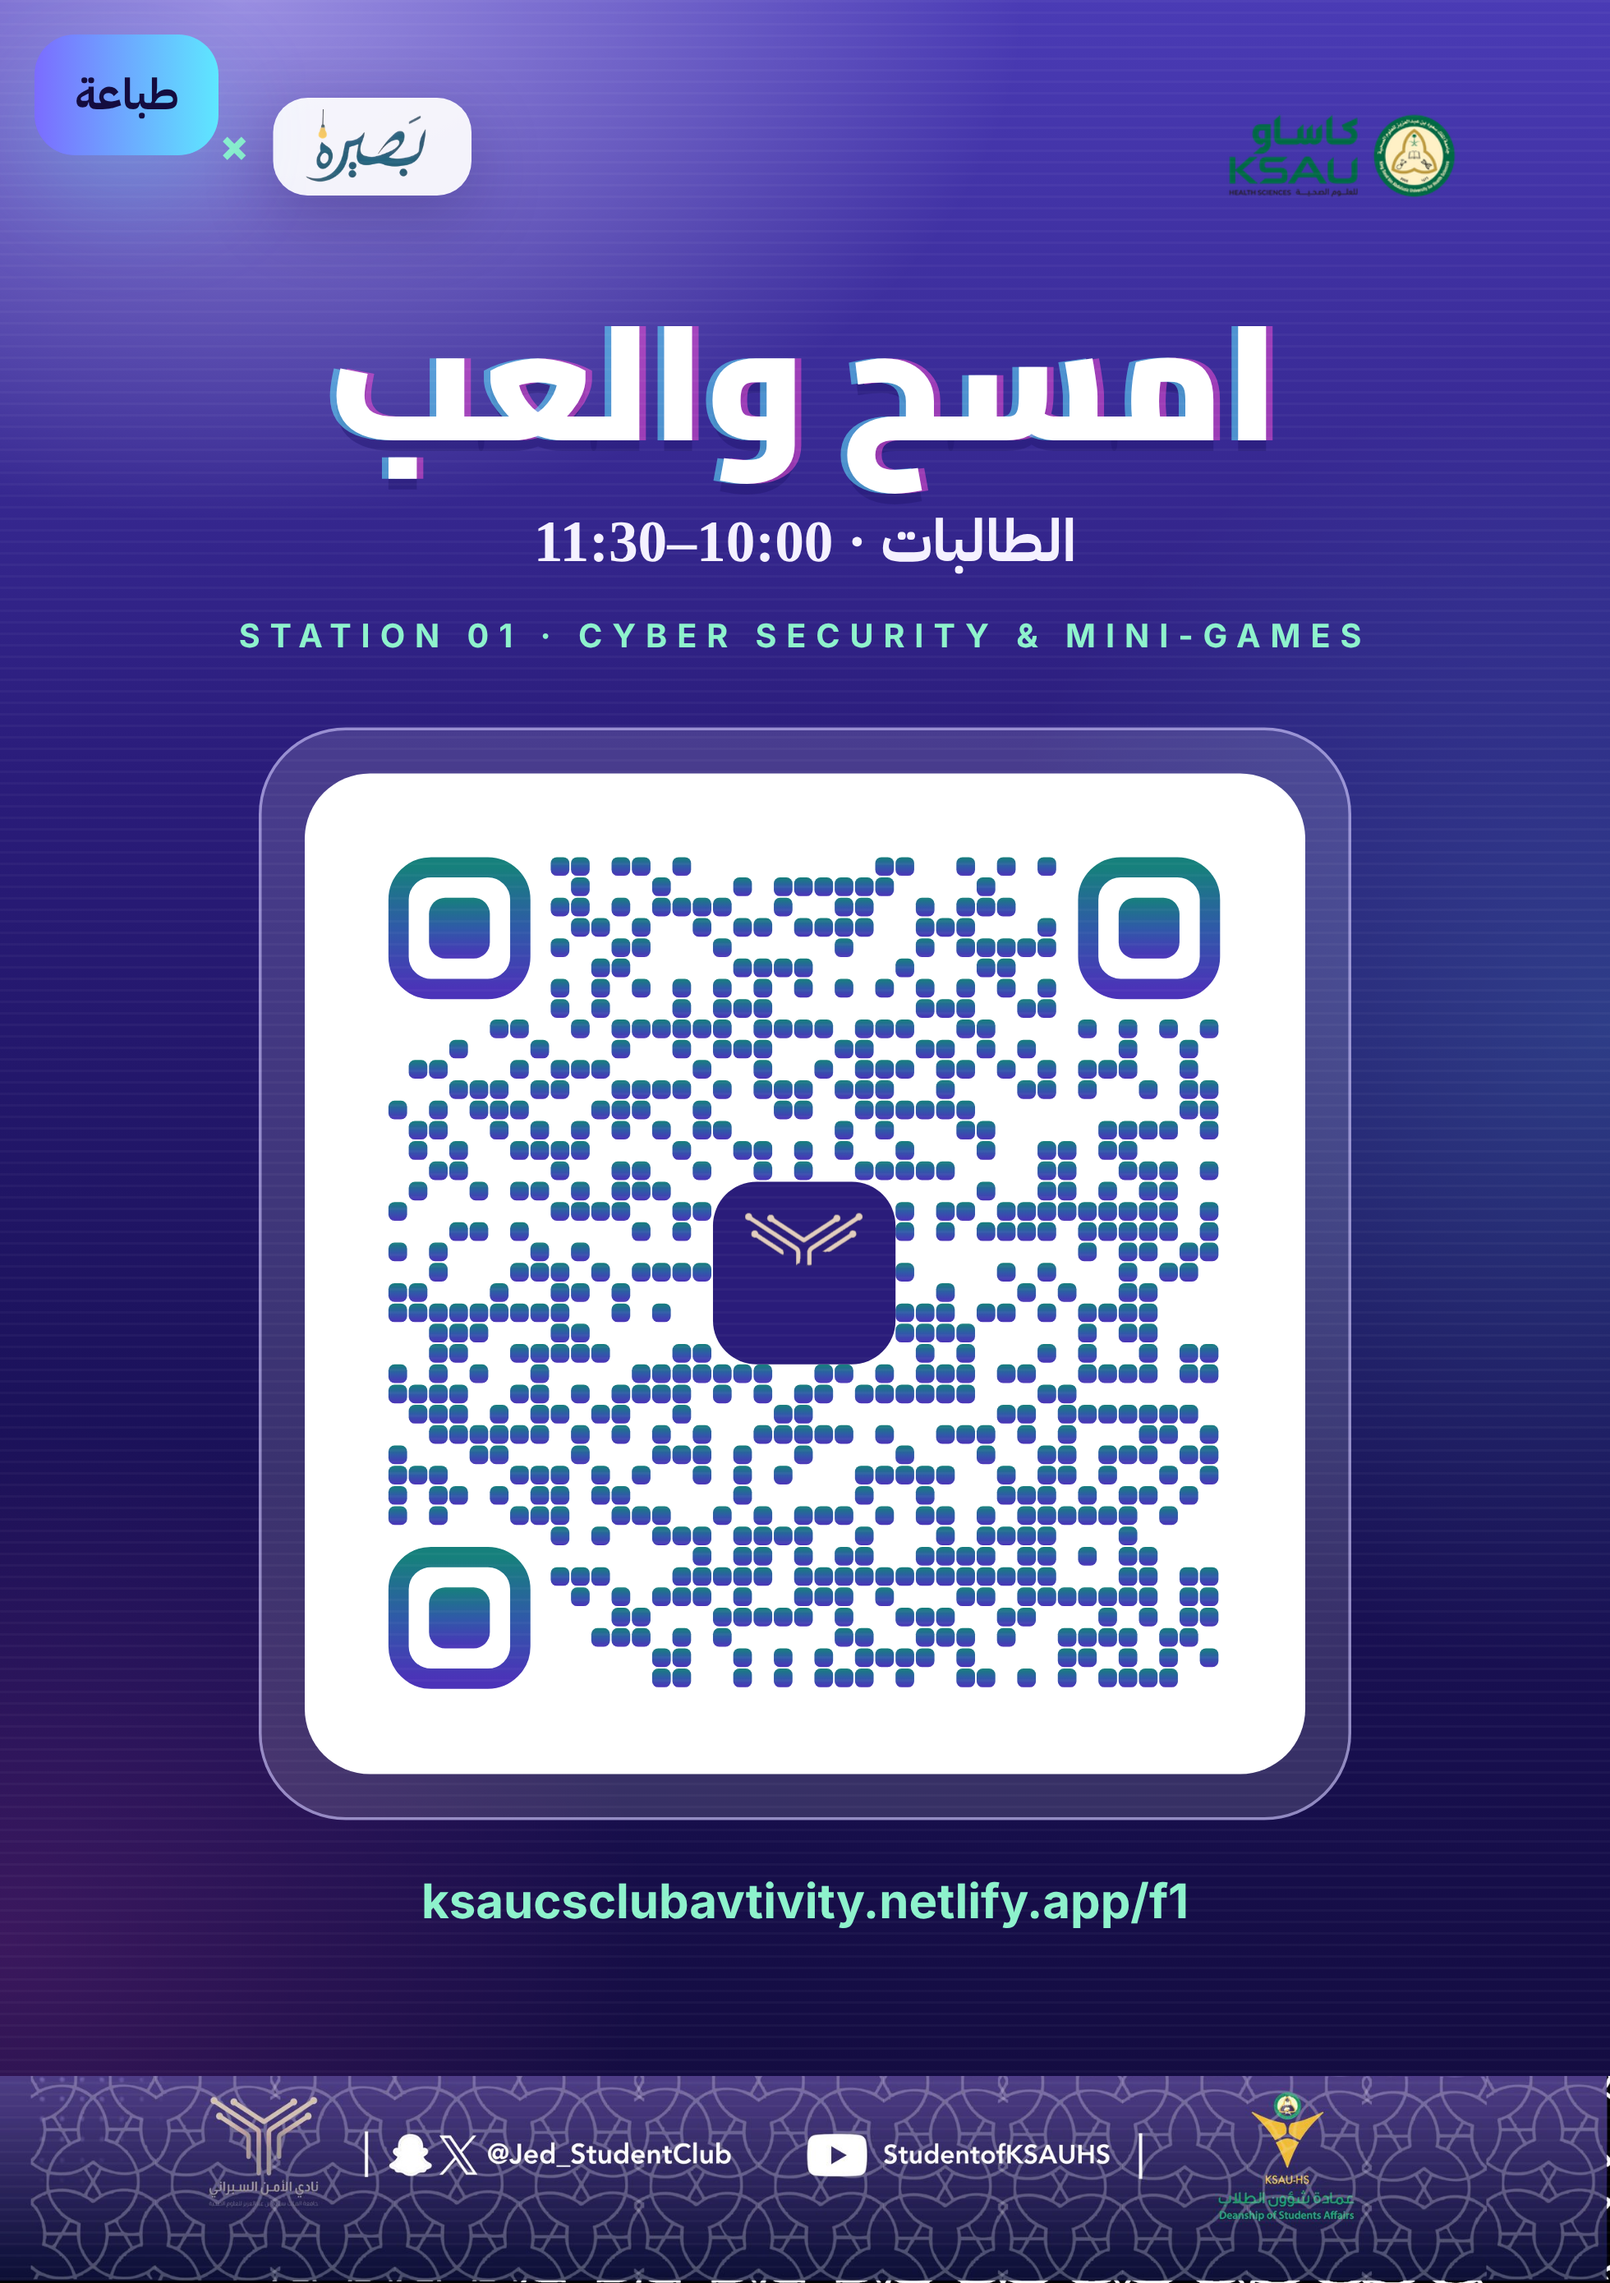
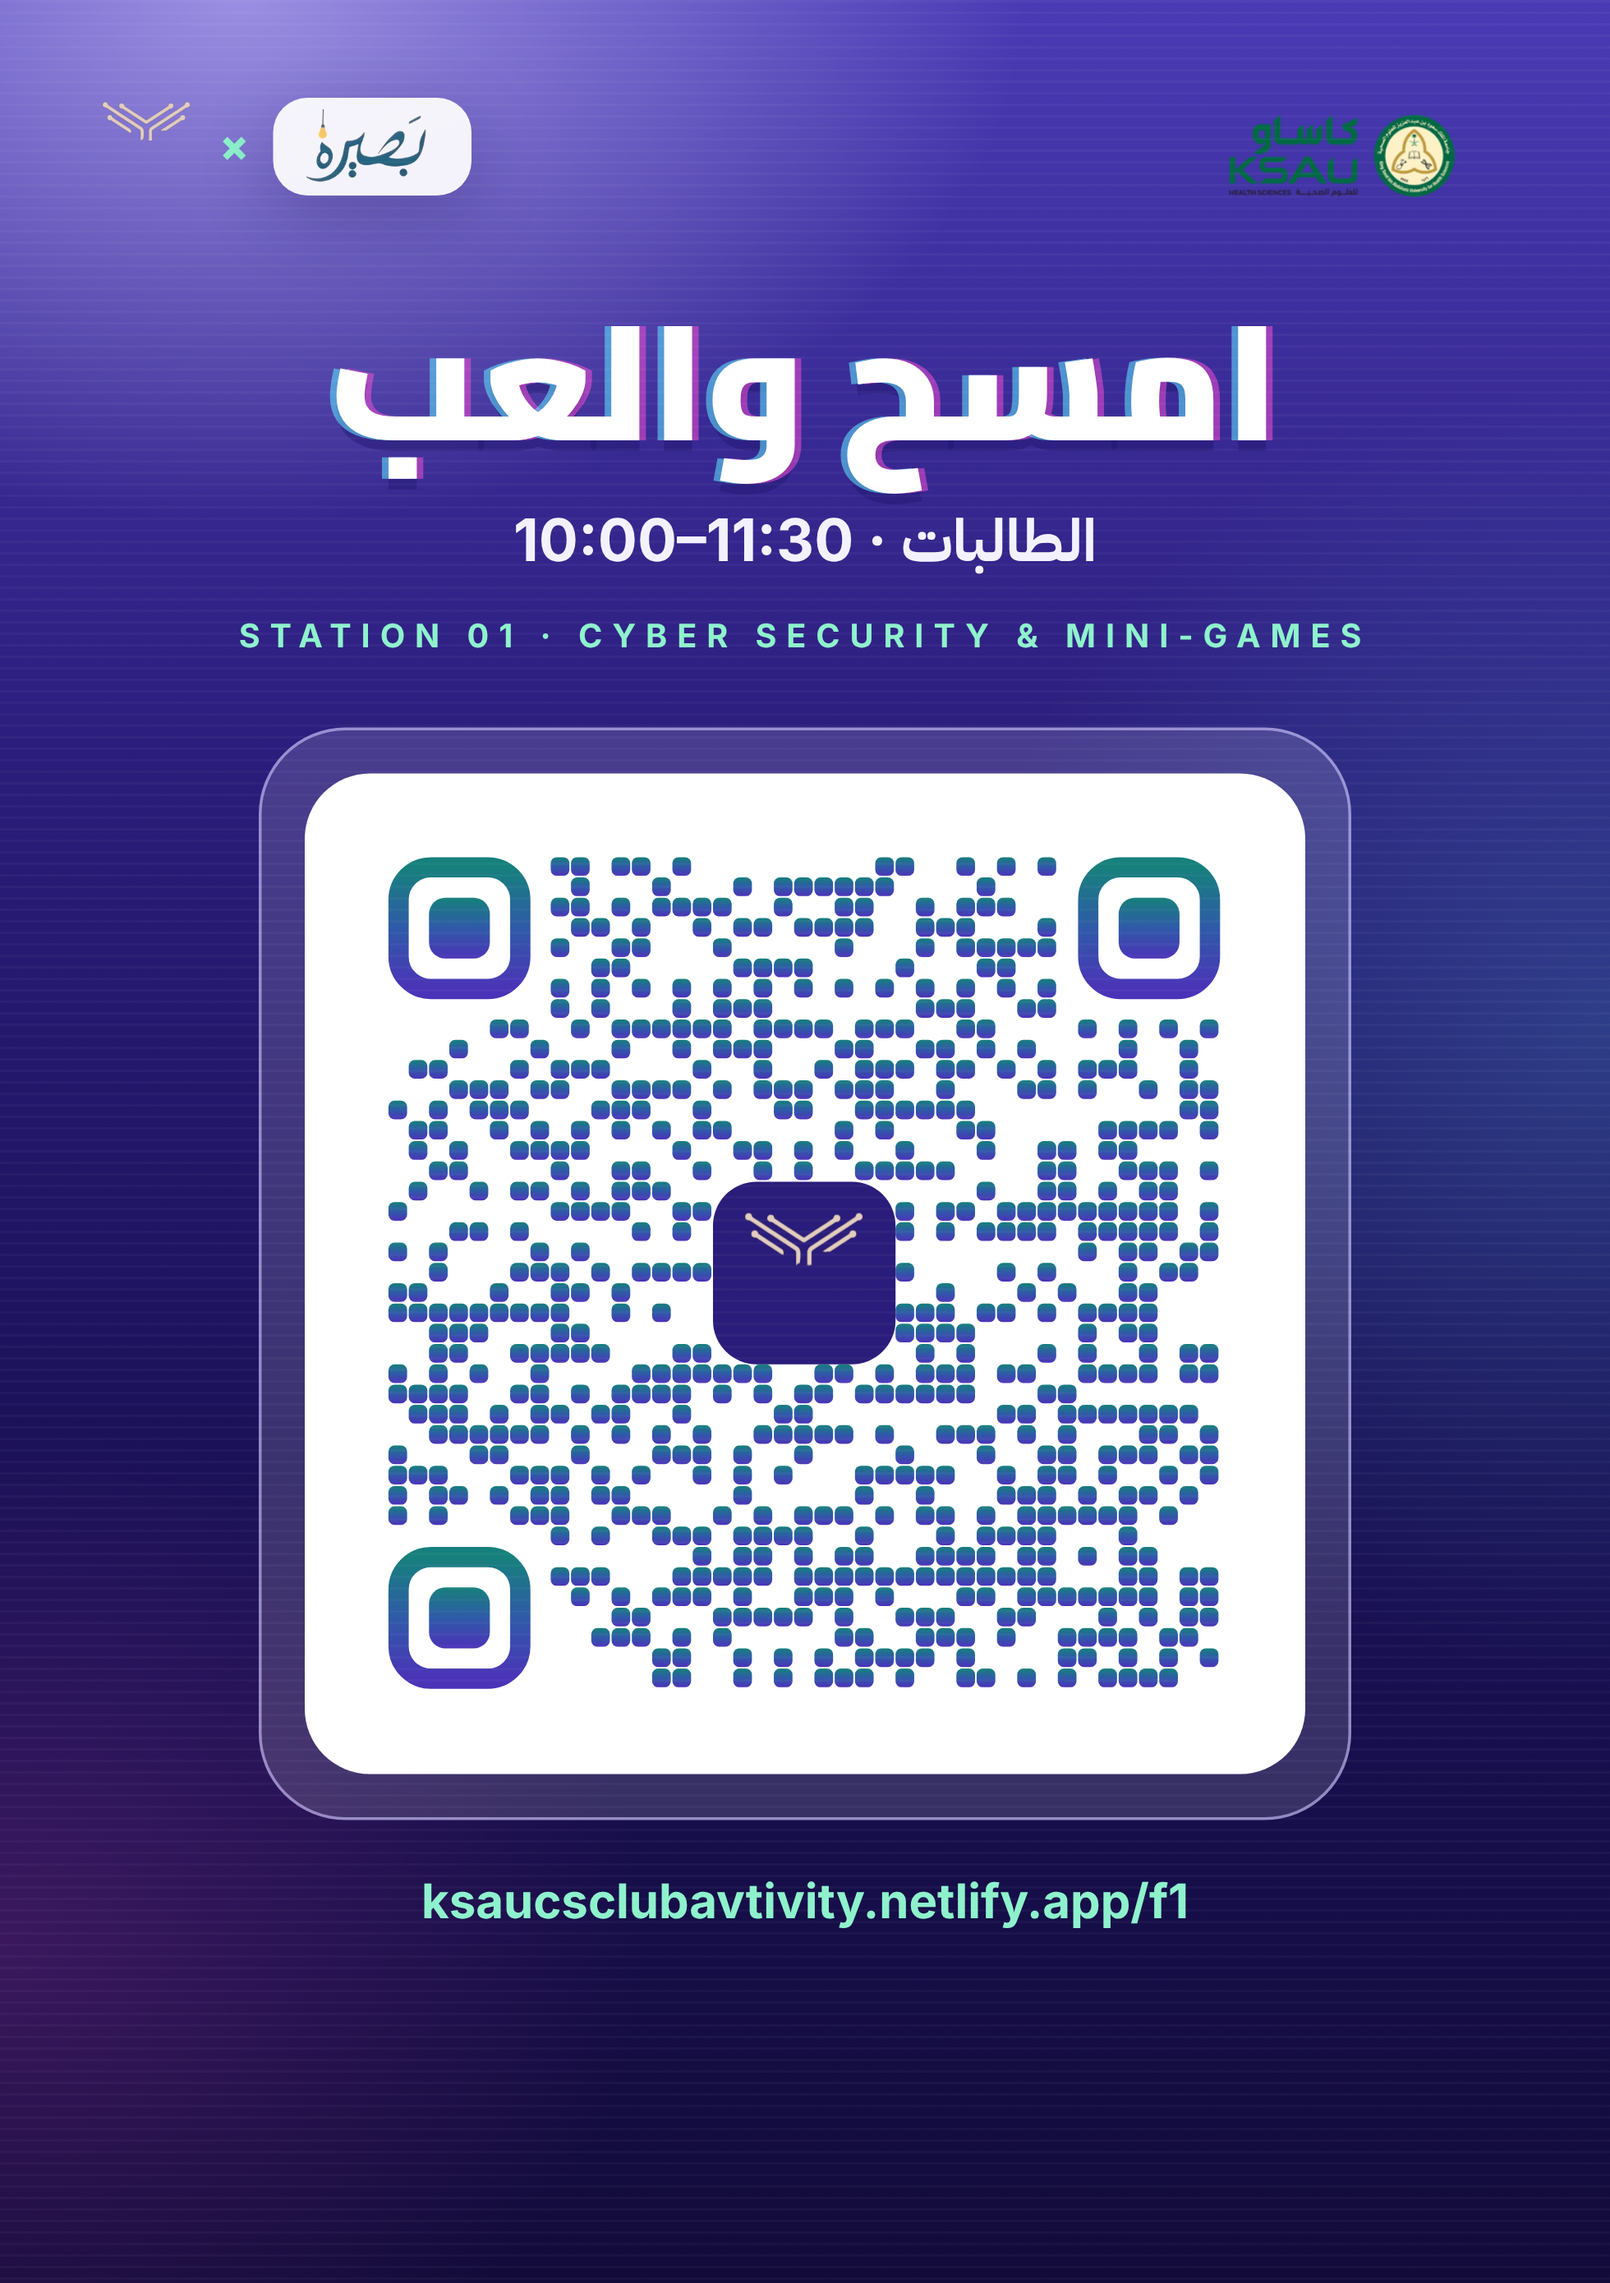
Remove the footer band and refresh the QR posters
- Drop the footer band from every page, the TV board, the share card and the A5 QR posters
- QR posters: keep the time range in order, leave the print button out of exported PNGs
- Use Inter as the Latin/number fallback so times render in the brand font

Claude-Session: https://claude.ai/code/session_011Ep7JahQNXMfZ1NkAnCFH5

Changed region(s): [[0.0, 0.8974, 1.0, 1.0], [0.3112, 0.2166, 0.6847, 0.2476], [0.0, 0.0, 0.1556, 0.0928]]

diff --git a/public/qr.html b/public/qr.html
@@ -24,13 +24,12 @@
   .ph .ksau{height:11mm;width:auto}.ph .lockup .mark{height:9mm;width:auto}.ph .pill img{height:7mm;width:auto}
   .pt{font-family:"Cairo";font-weight:900;font-size:15mm;line-height:1.2;text-align:center;margin-top:7mm;color:#fff;
     text-shadow:-.6mm 0 0 rgba(94,231,255,.55),.6mm 0 0 rgba(255,79,216,.5),0 1mm 0 rgba(34,22,110,.45)}
-  .ps{font-family:"Plex";font-weight:700;font-size:5.4mm;text-align:center;margin-top:1.5mm}
+  .ps{font-family:"Plex","Inter";font-weight:700;font-size:5.4mm;text-align:center;margin-top:1.5mm}
   .tag{font-size:3mm;margin-top:2mm}
   .frame{margin-top:6mm;padding:4mm;border-radius:8mm;background:rgba(255,255,255,.14);border:.5mm solid rgba(207,198,255,.6)}
   .qr{width:92mm;background:#fff;border-radius:6mm;padding:4mm}
   .qr svg{display:block;width:100%;height:auto}
   .url{font-family:"Inter";font-weight:700;font-size:4.4mm;color:var(--mint);margin-top:4mm;direction:ltr}
-  .pf{position:absolute;left:0;right:0;bottom:0;height:19mm;background:url("/assets/brand/footer_band.jpg") center/cover}
   @media print{.noprint{display:none}}
   .noprint{position:fixed;top:12px;left:12px;width:auto;z-index:5}
 </style>
@@ -47,11 +46,10 @@
   <p class="tag" id="ptag">STATION 01 · CYBER SECURITY &amp; MINI-GAMES</p>
   <div class="frame"><div class="qr" id="qr"></div></div>
   <div class="url" id="url"></div>
-  <div class="pf"></div>
 </div>
 <script src="/js/vendor/qrcode.js"></script>
 <script type="module">
-import { $, qs } from '/js/app.js'
+import { $, qs, iso } from '/js/app.js'
 import { qrSvg } from '/js/qr.js'
 // ?s=f1 → registration QR for that session · ?t=survey → exit survey · ?base= overrides the domain (used when exporting PNGs)
 const base = (qs.get('base') || location.origin).replace(/\/$/, '')
@@ -60,7 +58,8 @@ const survey = qs.get('t') === 'survey'
 const url = survey ? base + '/survey' : base + '/join?s=' + s
 const short = survey ? base + '/survey' : ['f1', 'm1'].includes(s) ? base + '/' + s : url
 if (survey) { $('#pt').textContent = 'قيّم تجربتك'; $('#ps').textContent = 'ثلاثة أسئلة قبل أن تغادر'; $('#ptag').textContent = 'AI & STARTUP OPEN EXPO · SURVEY' }
-else if (qs.get('label')) $('#ps').textContent = qs.get('label')
+else if (qs.get('label')) $('#ps').textContent = iso(qs.get('label'))
+if (qs.get('base')) document.querySelector('.noprint').remove() // PNG export
 $('#qr').innerHTML = qrSvg(url)
 $('#url').textContent = short.replace(/^https?:\/\//, '')
 </script>

diff --git a/public/js/app.js b/public/js/app.js
@@ -147,7 +147,7 @@ export const glitchText = (text, cls = '') => h('span', { class: `g ${cls}`.trim
 
 // ---------------------------------------------------------------- page chrome
 const GRID = `<svg viewBox="0 0 1080 460" preserveAspectRatio="none" aria-hidden="true"><defs><linearGradient id="gl" x1="0" y1="0" x2="0" y2="1"><stop offset="0" stop-color="#fff" stop-opacity="0"/><stop offset=".55" stop-color="#fff" stop-opacity=".5"/><stop offset="1" stop-color="#fff" stop-opacity=".12"/></linearGradient></defs><g stroke="url(#gl)" stroke-width="1" fill="none"><path d="M-300 460 L460 0 M-100 460 L500 0 M100 460 L540 0 M300 460 L560 0 M500 460 L580 0 M700 460 L600 0 M900 460 L620 0 M1100 460 L660 0 M1300 460 L700 0"/><path d="M0 120 H1080 M0 180 H1080 M0 250 H1080 M0 330 H1080 M0 420 H1080 M0 70 H1080 M0 30 H1080"/></g></svg>`
-export function chrome({ header = true, band = true } = {}) {
+export function chrome({ header = true } = {}) {
   const ground = h('div', { class: 'ground', 'aria-hidden': 'true' })
   ground.innerHTML = GRID
   document.body.prepend(ground)
@@ -161,6 +161,5 @@ export function chrome({ header = true, band = true } = {}) {
     document.body.prepend(top)
     document.body.prepend(ground)
   }
-  if (band) document.body.append(h('footer', { class: 'band', role: 'img', 'aria-label': 'نادي الأمن السيبراني · @Jed_StudentClub · StudentofKSAUHS · عمادة شؤون الطلاب' }))
   if ('serviceWorker' in navigator && location.protocol === 'https:') navigator.serviceWorker.register('/sw.js').catch(() => {})
 }

diff --git a/public/css/app.css b/public/css/app.css
@@ -17,7 +17,7 @@
   --panel:rgba(12,8,50,.55);--panel-line:rgba(207,198,255,.45);
   --shadow:0 24px 50px rgba(10,5,50,.4);
   --r:22px;
-  --font:"Plex","Cairo",system-ui,sans-serif;
+  --font:"Plex","Inter","Cairo",system-ui,sans-serif;
 }
 *{box-sizing:border-box;margin:0;padding:0}
 html{-webkit-text-size-adjust:100%;background:var(--night2)}
@@ -42,7 +42,7 @@ a{color:var(--cyan)}
 .ground::after{content:"";position:absolute;inset:0;pointer-events:none;
   background:repeating-linear-gradient(180deg,rgba(255,255,255,.03) 0 1px,transparent 1px 4px)}
 
-/* ---------------------------------------------------------------- header + footer band */
+/* ---------------------------------------------------------------- header */
 .top{display:flex;align-items:center;justify-content:space-between;gap:12px;padding:14px 16px 0;max-width:1200px;width:100%;margin:0 auto}
 .top .ksau{height:40px;width:auto}
 .lockup{display:flex;align-items:center;gap:8px;direction:ltr}
@@ -50,7 +50,6 @@ a{color:var(--cyan)}
 .lockup .x{font-family:"Inter";font-weight:800;color:var(--mint);font-size:15px}
 .pill{background:rgba(255,255,255,.92);border-radius:12px;padding:4px 10px;box-shadow:0 8px 24px rgba(20,10,80,.25);display:flex;align-items:center}
 .pill img{height:26px;width:auto}
-.band{margin-top:auto;width:100%;aspect-ratio:2400/311;background:url("/assets/brand/footer_band.jpg") center/cover no-repeat}
 
 main.wrap{width:100%;max-width:540px;margin:0 auto;padding:18px 16px 28px;flex:1}
 

diff --git a/public/js/result.js b/public/js/result.js
@@ -53,7 +53,7 @@ function spaced(ctx, text, x, y, gap) {
 }
 async function card(r) {
   await Promise.all(['900 80px Cairo', '700 40px Plex', '600 28px Plex', '800 100px Inter', '700 22px Inter'].map((f) => document.fonts.load(f, 'معرض 123')))
-  const [ksau, mark, bas, band] = await Promise.all(['/assets/brand/logo_ksau.png', '/assets/brand/cyber_mark_keyed.png', '/assets/brand/logo_baseerah.png', '/assets/brand/footer_band.jpg'].map(img))
+  const [ksau, mark, bas] = await Promise.all(['/assets/brand/logo_ksau.png', '/assets/brand/cyber_mark_keyed.png', '/assets/brand/logo_baseerah.png'].map(img))
   const W = 1080, cv = document.createElement('canvas')
   cv.width = cv.height = W
   const c = cv.getContext('2d')
@@ -99,9 +99,7 @@ async function card(r) {
   const line = (r.counted && r.valid && r.total > 0) ? `${r.name} · #${r.rank} على اللوحة` : r.name
   c.font = '700 34px Plex'; c.fillStyle = '#ffd56b'; c.fillText(line, 540, 810)
 
-  c.font = '600 26px Plex'; c.fillStyle = '#f4f1ff'; c.fillText('هل تكشف رسالة الاحتيال في 10 ثوانٍ؟ 🔐', 540, 920)
-  const bh = W * band.height / band.width
-  c.drawImage(band, 0, W - bh, W, bh)
+  c.font = '600 26px Plex'; c.fillStyle = '#f4f1ff'; c.fillText('هل تكشف رسالة الاحتيال في 10 ثوانٍ؟ 🔐', 540, 950)
   return new Promise((ok) => cv.toBlob(ok, 'image/png'))
 }
 async function share(r) {

diff --git a/public/sw.js b/public/sw.js
@@ -1,9 +1,9 @@
 // Offline shell: a dropped hall Wi-Fi never white-screens a game. Pages are network-first, static files cache-first,
 // /api is never cached (answers are retried by the page itself).
-const V = 'expo-v1'
+const V = 'expo-v2'
 const SHELL = ['/', '/play.html', '/game.html', '/result.html', '/join.html', '/css/app.css', '/js/app.js', '/js/game.js', '/js/result.js',
   '/fonts/cairo-arabic-900-normal.woff2', '/fonts/ibm-plex-sans-arabic-arabic-600-normal.woff2', '/fonts/ibm-plex-sans-arabic-arabic-700-normal.woff2',
-  '/fonts/inter-latin-800-normal.woff2', '/assets/brand/logo_ksau.png', '/assets/brand/cyber_mark_keyed.png', '/assets/brand/logo_baseerah.png', '/assets/brand/footer_band.jpg']
+  '/fonts/inter-latin-800-normal.woff2', '/assets/brand/logo_ksau.png', '/assets/brand/cyber_mark_keyed.png', '/assets/brand/logo_baseerah.png']
 self.addEventListener('install', (e) => e.waitUntil(caches.open(V).then((c) => c.addAll(SHELL)).then(() => self.skipWaiting())))
 self.addEventListener('activate', (e) => e.waitUntil(caches.keys().then((ks) => Promise.all(ks.filter((k) => k !== V).map((k) => caches.delete(k)))).then(() => self.clients.claim())))
 const PAGE = { '/play': '/play.html', '/join': '/join.html' }

diff --git a/public/board.html b/public/board.html
@@ -46,7 +46,6 @@
   .legend{display:grid;gap:.4vw;font-size:clamp(11px,.9vw,18px);color:var(--lav);font-weight:600}
   .legend span{display:flex;align-items:center;gap:.5vw}.legend i{width:1.6vw;height:.5vw;border-radius:1vw}
   .empty{display:grid;place-items:center;text-align:center;font-weight:700;font-size:clamp(18px,2vw,40px);color:var(--lav)}
-  .band.tv-band{flex:none;max-height:9vh;aspect-ratio:auto;height:9vh}
   .reveal{position:fixed;inset:0;z-index:40;display:flex;flex-direction:column;align-items:center;justify-content:center;gap:1.6vw;
     background:radial-gradient(60vw 40vw at 50% 30%,rgba(106,90,224,.55),rgba(18,11,58,0) 70%),#120b3a}
   .reveal h1{font-size:clamp(48px,7vw,150px)}
@@ -67,7 +66,6 @@
     .tv-head .ksau,.tv-head .lockup{display:none}
     .row{grid-template-columns:40px 1fr auto;padding:10px 12px;border-radius:16px;gap:10px}
     .bars{display:none}.side{display:none}.rows{grid-auto-rows:auto;gap:8px}
-    .band.tv-band{height:auto;max-height:none;aspect-ratio:2400/311}
     .podium{width:calc(100vw - 32px)}.pod{grid-template-columns:48px 1fr auto;padding:14px}.pod .badge{width:44px;height:44px}
   }
 </style>

diff --git a/public/js/board.js b/public/js/board.js
@@ -3,7 +3,6 @@ import { $, h, api, chrome, GAMES, ORDER, qs, beat, sleep, iso } from '/js/app.j
 import { qrSvg } from '/js/qr.js'
 
 chrome({ header: false })
-$('.band').classList.add('tv-band')
 const COLORS = { phish: '#ff7fe3', puzzles: '#ffd56b', quiz: '#5ee7ff' }
 $('#legend').replaceChildren(...ORDER.map((g) => h('span', {}, h('i', { style: `background:${COLORS[g]}` }), GAMES[g].t)))
 let sid = qs.get('s')

diff --git a/README.md b/README.md
@@ -3,7 +3,7 @@
 **زاوية الأمن السيبراني والألعاب المصغّرة**: three quick security mini-games on the player's own phone, one shared
 leaderboard on the hall TV, and an admin screen for the club members at the table. Cybersecurity Club × Baseerah Club,
 KSAU-HS Jeddah. Arabic RTL, in the club's poster look (Cairo 900 / IBM Plex Sans Arabic / Inter, violet ground, glass tiles,
-the cyan–magenta glitch on beats only, the footer band).
+the cyan–magenta glitch on beats only).
 
 Live: https://ksaucsclubavtivity.netlify.app (auto-deploys from `master`).
 
